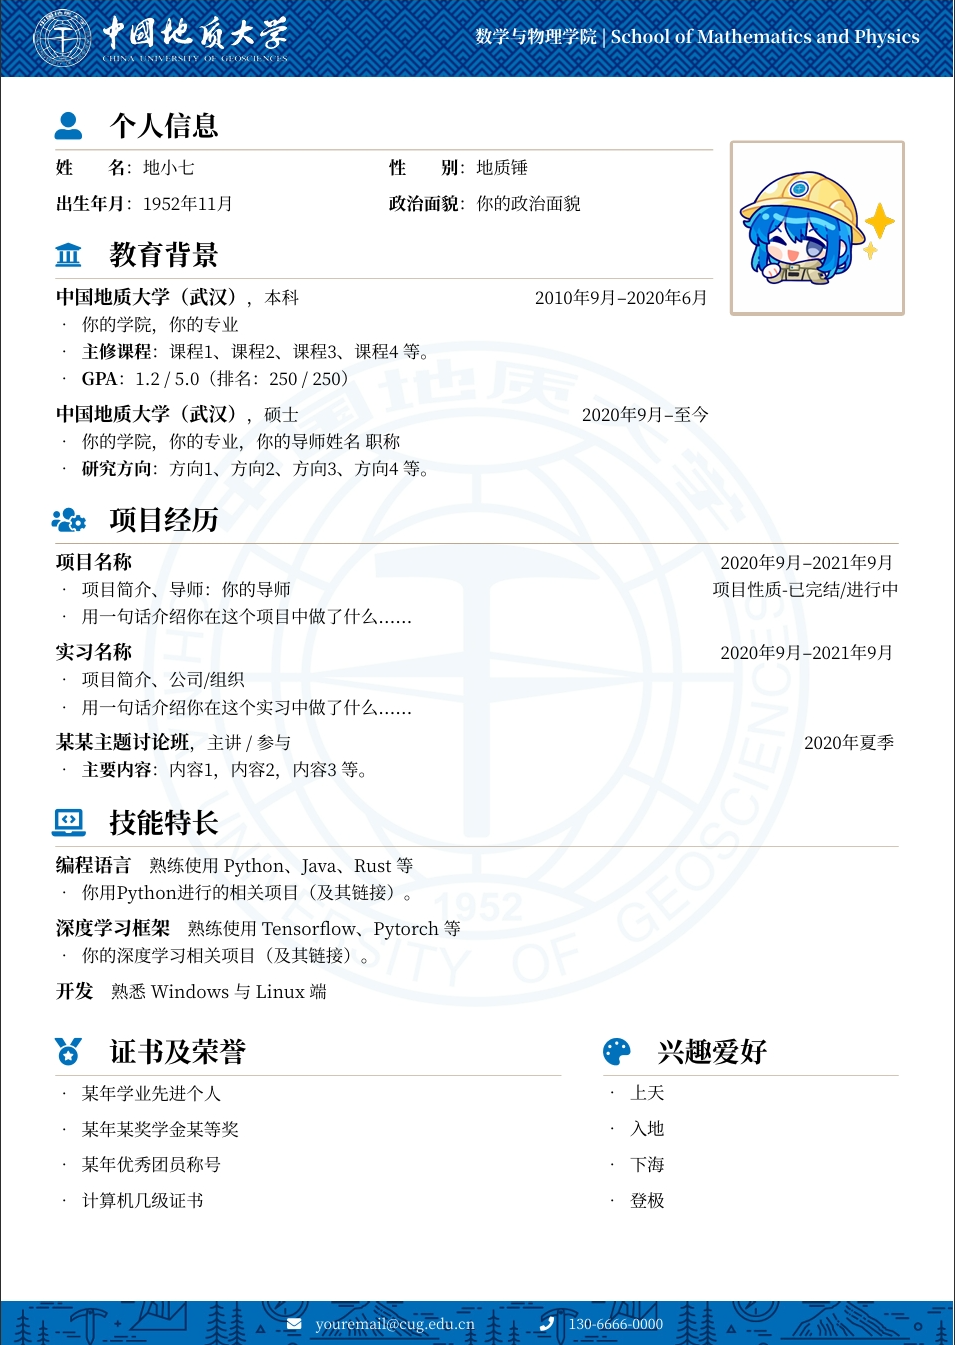
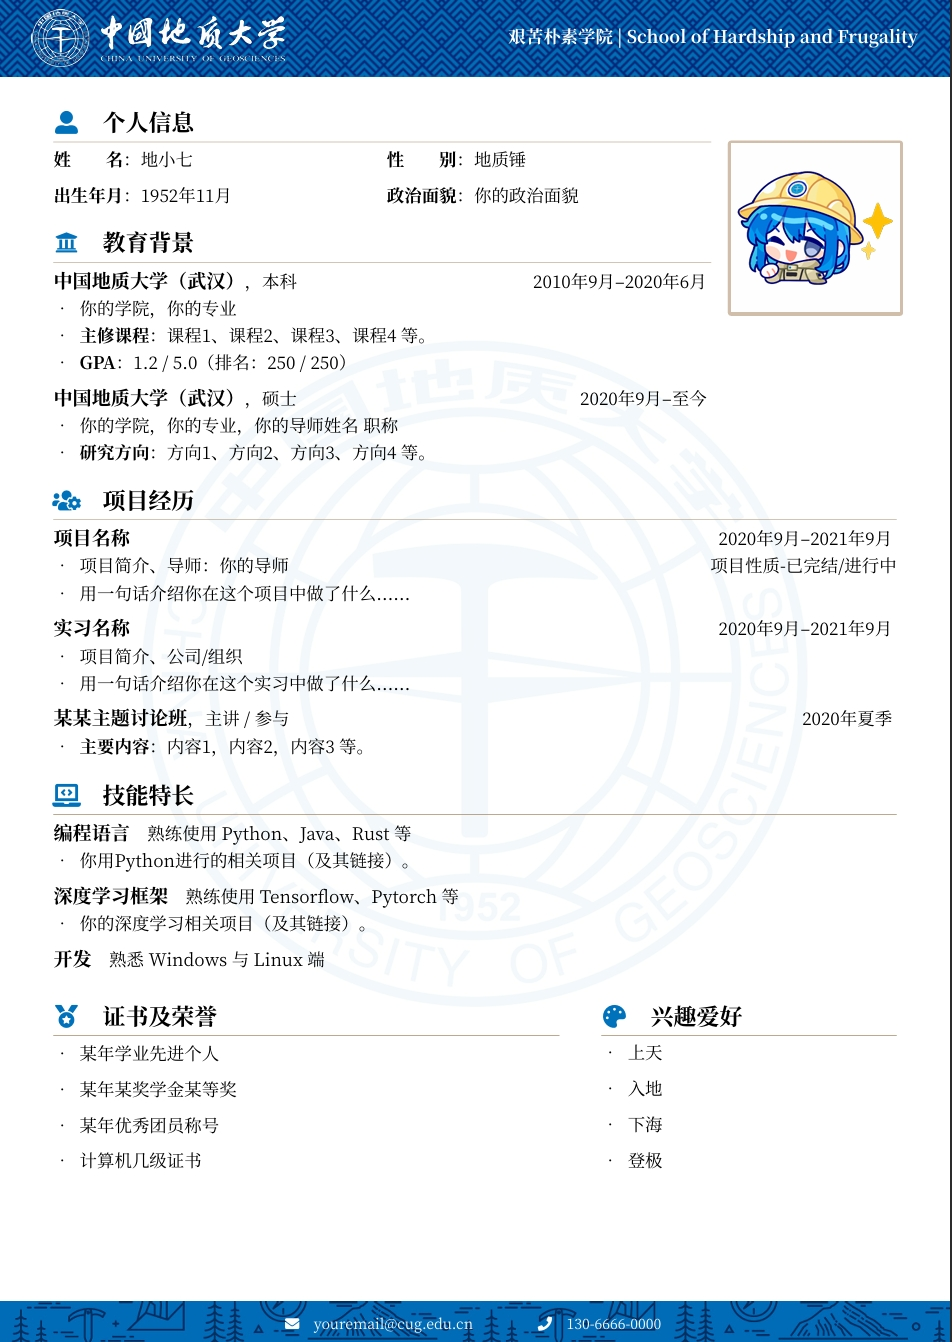
调整了新建页面的初始化，修改了学院名称细节，并更新了简历预览图

diff --git a/CVmain.tex b/CVmain.tex
@@ -17,6 +17,10 @@
 % 设置
 %%%%%%%%%%%%%%%%%%%%
 
+\newcommand{\mylarge}{\fontsize{18pt}{20pt}\selectfont} % 设置大号字体
+\newcommand{\mynormal}{\fontsize{12pt}{14pt}\selectfont} % 设置正常字体
+\newcommand{\mysmall}{\fontsize{10pt}{12pt}\selectfont} % 设置小号字体
+
 \setlength{\parindent}{0pt}					% 取消全局段落缩进
 \pagenumbering{gobble}						% 取消页码显示
 \setlist[itemize]{nosep                     % 取消 itemize 的默认间距
@@ -27,7 +31,7 @@
 \linespread{1.25}                           % 设置正文行间距
 
 \titleformat{\section}					    % 将原标题前面的数字取消了
-  {\LARGE\bfseries\raggedright} 		      % 字体改为 LARGE，bold，左对齐
+  {\Large\bfseries\raggedright} 		      % 字体改为 LARGE，bold，左对齐
   {}{0em}                      			  % 可用于添加全局标题前缀
   {}                           			  % 可用于添加代码
   [{\secondarycolor\titlerule}]     % 标题下方加一条线
@@ -76,7 +80,7 @@
 %%%%%%%%%%%%%%%%%%%%
 
 % 学院
-\newcommand{\school}{数学与物理学院 | School of Mathematics and Physics} 
+\newcommand{\school}{艰苦朴素学院 | School of Hardship and Frugality} 
 
 % 联系方式
 \newcommand{\contact}{
@@ -96,11 +100,8 @@
     }
 }
 
-\begin{document}
-
-    %%%%%%%%%%%%%%%%%%%%
-    % 页眉、页脚和背景（如果有多页简历，请把页眉页脚和背景复制粘贴到第二页的内容之前）
-    %%%%%%%%%%%%%%%%%%%%
+% 设定页面标题和页眉页脚
+\newcommand{\pageinit}{
 
     % 页眉：校标组合+学院名
     \begin{tikzpicture}[remember picture, overlay]
@@ -133,7 +134,12 @@
             \includegraphics[width=0.7\paperwidth, keepaspectratio]{images/logoblue.jpg}
         };
     \end{tikzpicture}
+}
 
+\begin{document}
+	
+    % 每页newpage要重新init
+	\pageinit
     %%%%%%%%%%%%%%%%%%%%
     % 简历正文
     %%%%%%%%%%%%%%%%%%%%
@@ -295,7 +301,7 @@
 		\end{minipage}
 	
     % \newpage
-    % % 如有需要，可以添加额外的页面。不要忘记添加页眉页脚和背景相关的代码。
+    % % 如有需要，可以添加额外的页面。不要忘记初始化页眉页脚
 
     % % 竞赛经历
     % \section{\makebox[\widthof{\faTrophy}][c]{\primarycolor{\faTrophy}}\quad 竞赛经历}
